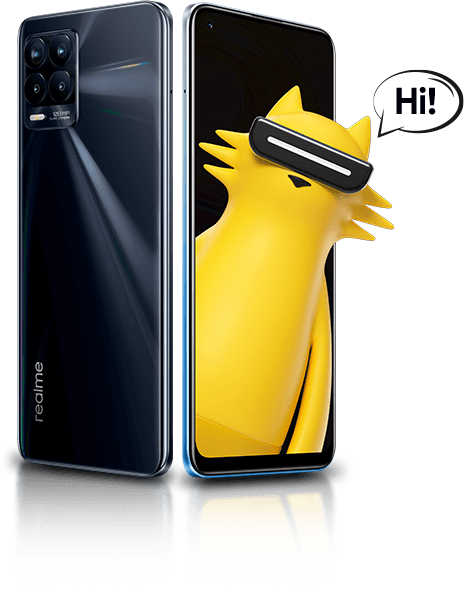
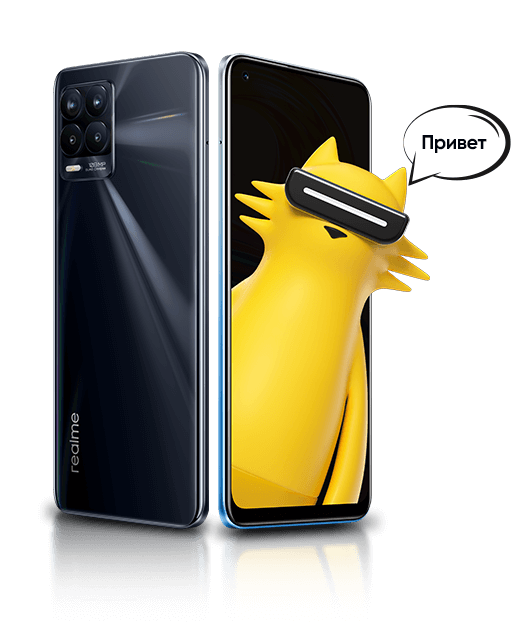
fix+adaptive start

diff --git a/css/styles.css b/css/styles.css
@@ -14,13 +14,23 @@ body {min-width:480px; margin:0; padding:0; background:#000 url(../images/bg.png
 .container {max-width:1200px; margin:0 auto; padding:0 30px}
 .container::after {content:""; display:block; clear:both}
 
-.logo {position:absolute; right:69px; top:39px; width:126px; height:38px; background:url(../images/logo.svg) no-repeat; background-size:100%; z-index:20}
+.logo {display:block; position:absolute; right:69px; top:39px; width:126px; height:38px; background:url(../images/logo.svg) no-repeat; background-size:100%; z-index:20}
+
+@media (max-width:767px) {
+    .logo {right:30px; top:30px; width:116px; height:35px}
+}
 
 .slider {font-size:0; line-height:0; letter-spacing:-1px; white-space:nowrap; position:relative; overflow:hidden}
 .slider-item {display:inline-block; vertical-align:top; width:100%}
 .slider-item-inner {height:790px; position:relative}
 .slider-item-bg {position:absolute; left:0; top:0; right:0; bottom:0; background:no-repeat center}
 .slider-item-content {position:relative; color:#fff}
+.slider .slick-prev,
+.slider .slick-next {display:block; position:absolute; z-index:2; top:50%; width:37px; height:53px; border:none; border-radius:0; margin:-26.5px 0 0 0; padding:0; outline:none; -webkit-appearance:none; cursor:pointer; background:none; transition:opacity 0.2s}
+.slider .slick-prev {left:52px; background:url(../images/slick-prev.png) no-repeat}
+.slider .slick-next {right:52px; background:url(../images/slick-next.png) no-repeat}
+.slider .slick-prev:hover,
+.slider .slick-next:hover {opacity:0.8}
 .slider .slick-dots {margin:0; padding:0; list-style:none; text-align:center; font-size:0; line-height:0; letter-spacing:-1px; position:absolute; left:0; bottom:34px; right:0}
 .slider .slick-dots li {margin:0 0 0 5px; padding:0; display:inline-block; vertical-align:top; position:relative}
 .slider .slick-dots li::before {display:none}
@@ -37,9 +47,11 @@ body {min-width:480px; margin:0; padding:0; background:#000 url(../images/bg.png
 .slider-1-buy::after {content:""; display:block; clear:both}
 .slider-1-price {float:left}
 .slider-1-price-value {font-weight:bold; font-size:59px; line-height:59px; color:#ffa336}
+.slider-1-price-value em {font-style:normal; font-size:48px; margin:0 17px 0 0}
 .slider-1-price-value span {font-size:52px; margin:0 0 0 5px}
+.slider-1-price-value strong {font-weight:bold; font-size:48px; margin:0 0 0 13px}
 .slider-1-price-old {font-weight:500; font-size:29px; line-height:29px; color:#7a7a7a; text-decoration:line-through; padding:2px 0 0 0}
-.slider-1-buy-link {float:left; width:236px; height:79px; margin:10px 0 0 39px; background:url(../images/slider-1-buy.png); text-align:center; text-decoration:none; color:#000109; font-weight:bold; font-size:47px; line-height:79px; position:relative; overflow:hidden}
+.slider-1-buy-link {float:left; width:236px; height:79px; margin:10px 0 0 13px; background:url(../images/slider-1-buy.png); text-align:center; text-decoration:none; color:#000109; font-weight:bold; font-size:47px; line-height:79px; position:relative; overflow:hidden}
 .slider-1-buy-link::before {content:""; display:block; background:#fff; height:155px; left:-75px; opacity:.2; position:absolute; top:-50px; transform:rotate(35deg); transition:all 550ms cubic-bezier(0.19, 1, 0.22, 1); width:50px}
 .slider-1-buy-link:hover::before {left:120%}
 
@@ -64,9 +76,11 @@ body {min-width:480px; margin:0; padding:0; background:#000 url(../images/bg.png
 .slider-3-buy::after {content:""; display:block; clear:both}
 .slider-3-price {float:left}
 .slider-3-price-value {font-weight:bold; font-size:59px; line-height:59px; color:#ffa336}
+.slider-3-price-value em {font-style:normal; font-size:48px; margin:0 17px 0 0}
 .slider-3-price-value span {font-size:52px; margin:0 0 0 5px}
+.slider-3-price-value strong {font-weight:bold; font-size:48px; margin:0 0 0 13px}
 .slider-3-price-old {font-weight:500; font-size:29px; line-height:29px; color:#7a7a7a; text-decoration:line-through; padding:2px 0 0 0}
-.slider-3-buy-link {float:left; width:236px; height:79px; margin:6px 0 0 50px; background:url(../images/slider-1-buy.png); text-align:center; text-decoration:none; color:#000109; font-weight:bold; font-size:47px; line-height:79px; position:relative; overflow:hidden}
+.slider-3-buy-link {float:left; width:236px; height:79px; margin:6px 0 0 19px; background:url(../images/slider-1-buy.png); text-align:center; text-decoration:none; color:#000109; font-weight:bold; font-size:47px; line-height:79px; position:relative; overflow:hidden}
 .slider-3-buy-link::before {content:""; display:block; background:#fff; height:155px; left:-75px; opacity:.2; position:absolute; top:-50px; transform:rotate(35deg); transition:all 550ms cubic-bezier(0.19, 1, 0.22, 1); width:50px}
 .slider-3-buy-link:hover::before {left:120%}
 
@@ -81,6 +95,14 @@ body {min-width:480px; margin:0; padding:0; background:#000 url(../images/bg.png
 .title {position:relative; height:114px; margin:0 -30px; background:url(../images/title.png) no-repeat center; text-align:center; padding:25px 0 0 0}
 .title-text-1 {font-size:41px; font-weight:600; line-height:41px; color:#ffa336; letter-spacing:-0.025em}
 .title-text-2 {font-size:22px; line-height:22px; color:#04f0ff; padding:3px 0 0 0}
+
+@media (max-width:767px) {
+    .title {background:url(../images/title-mobile.svg) no-repeat center; padding:0}
+    .title-wrapper {width:461px; display:table; margin:0 auto}
+    .title-inner {display:table-cell; height:114px; vertical-align:middle; padding:0 90px}
+    .title-text-1 {font-weight:bold; font-size:20px; line-height:24px; letter-spacing:0}
+    .title-text-2 {font-size:14px; line-height:16px; padding:5px 0 0 0; color:#00bae3}
+}
 
 .tech {margin:60px -13px 0 -13px; font-size:0; line-height:0; letter-spacing:-1px; white-space:nowrap; position:relative}
 .tech::before {content:""; display:block; width:1171px; height:69px; background:url(../images/gallery-top.png) no-repeat; position:absolute; z-index:1; left:50%; top:-9px; margin-left:-585.5px; pointer-events:none}
@@ -121,10 +143,10 @@ body {min-width:480px; margin:0; padding:0; background:#000 url(../images/bg.png
 .find {margin:120px -20px 0 -20px; background:rgba(4, 240, 255, 0.05); position:relative}
 .find::before {content:""; display:block; width:139px; height:136px; position:absolute; left:0; top:0; background:url(../images/find-left.png); z-index:-1}
 .find::after {content:""; display:block; width:139px; height:136px; position:absolute; right:0; bottom:0; background:url(../images/find-right.png); z-index:-1}
-.find-container {padding:74px 0 0 97px}
+.find-container {padding:74px 0 0 64px}
 .find-container::after {content:""; display:block; clear:both}
-.find-photo {float:left; line-height:0; width:464px; margin:0 0 -36px 0}
-.find-content {float:left; width:500px; margin:0 0 0 30px; padding:42px 0 0 0}
+.find-photo {float:left; line-height:0; width:511px; margin:-71px 0 -23px 0}
+.find-content {float:left; width:500px; margin:0 0 0 16px; padding:42px 0 0 0}
 .find-title {color:#fff; font-weight:bold; font-size:47px; line-height:47px; letter-spacing:-0.025em}
 .find-text {color:#fff; font-size:24px; line-height:31px; padding:24px 0 0 0}
 .find-links {margin:22px 0 0 -10px; font-size:0; line-height:0; letter-spacing:-1px}
@@ -149,6 +171,15 @@ body {min-width:480px; margin:0; padding:0; background:#000 url(../images/bg.png
 .buy-link {float:right; width:258px; height:89px; margin:60px 60px 0 0; background:url(../images/buy-link.png); text-align:center; text-decoration:none; color:#000109; font-weight:bold; font-size:53px; line-height:89px; position:relative; overflow:hidden}
 .buy-link::before {content:""; display:block; background:#fff; height:205px; left:-75px; opacity:.2; position:absolute; top:-50px; transform:rotate(35deg); transition:all 550ms cubic-bezier(0.19, 1, 0.22, 1); width:50px}
 .buy-link:hover::before {left:120%}
+
+@media (max-width:767px) {
+    .buy {margin:70px -30px; height:275px; background:url(../images/buy-mobile.svg) no-repeat center; padding:0; text-align:center}
+    .buy-text {float:none; padding:29px 0 0 0}
+    .buy-title {font-weight:bold; font-size:48px; line-height:58px; color:#ff9f00; letter-spacing:0}
+    .buy-descr {font-weight:normal; font-size:24px; line-height:28px; padding:10px 0 0 0; margin:0 auto; max-width:210px}
+    .buy-link {float:none; display:block; width:277px; height:57px; margin:20px auto 0 auto; background:linear-gradient(180deg, #ffc800 0%, #ff8800 100%); border-radius:5px; font-size:36px; line-height:57px; color:#000}
+    .buy-link::before {display:none}
+}
 
 .video {margin:60px 0 160px 0}
 .video-list {position:relative; margin:0 -13px; position:relative; font-size:0; line-height:0; letter-spacing:-1px; position:relative; white-space:nowrap}
@@ -199,13 +230,29 @@ body {min-width:480px; margin:0; padding:0; background:#000 url(../images/bg.png
 .gallery-list .slick-dots li button {display:block; position:relative; width:15px; height:15px; border-radius:50%; border:none; background:#0f5382; margin:0; padding:0; outline:none; -webkit-appearance:none; cursor:pointer; font-size:0; line-height:0; text-indent:100px; transition:background 0.2s}
 .gallery-list .slick-dots li.slick-active button {background:#ffa336}
 
+@media (max-width:767px) {
+    .gallery {width:404px; margin:47px auto 0 auto}
+    .gallery::before {width:410px; height:24px; background:url(../images/gallery-top-mobile.svg) no-repeat; top:-3px; margin-left:-205px}
+    .gallery::after {width:410px; height:24px; background:url(../images/gallery-bottom-mobile.svg) no-repeat; bottom:-3px; margin-left:-205px}
+    .gallery-list .slick-prev,
+    .gallery-list .slick-next {width:30px; height:42px; margin:-21px 0 0 0}
+    .gallery-list .slick-prev {left:10px; background:url(../images/slick-prev-mobile.png) no-repeat}
+    .gallery-list .slick-next {right:10px; background:url(../images/slick-next-mobile.png) no-repeat}
+    .gallery-list .slick-dots {bottom:15px}
+    .gallery-list .slick-dots li {margin:0 0 0 20px}
+    .gallery-list .slick-dots li:first-child {margin:0}
+    .gallery-list .slick-dots li button {width:10px; height:10px}
+    .gallery-list .slick-dots li.slick-active button {background:#ffc915}
+}
+
 .app {margin:60px 0 0 0; text-align:center; padding:0 0 92px 0}
 .app-qr {line-height:0}
+.app-qr-mobile {display:none}
 .app-title {font-weight:600; font-size:24px; line-height:24px; color:#ffa336; padding:20px 0 0 0}
 .app-title a {color:#ffa336; text-decoration:none; transition:color 0.2s}
 .app-title a:hover {color:#00bdff}
 .app-links {margin:28px 0 0 0; text-align:center; font-size:0; line-height:0; letter-spacing:-1px}
-.app-links a {display:inline-block; vertical-align:top; margin:0 0 0 15px; border:1px solid #00d9ff; border-radius:5px; height:48px; font-size:18px; line-height:46px; font-weight:bold; color:#00bdff; text-decoration:none; letter-spacing:0; position:relative; overflow:hidden}
+.app-links a {display:inline-block; vertical-align:top; margin:0 0 0 15px; border:1px solid #00d9ff; border-radius:5px; height:48px; font-size:16px; line-height:46px; font-weight:bold; color:#00bdff; text-decoration:none; letter-spacing:0; position:relative; overflow:hidden}
 .app-links a:first-child {margin:0}
 .app-links a span {display:block; background:#000; position:absolute; left:0; top:0; width:100%; height:100%}
 .app-links a img {vertical-align:middle}
@@ -218,12 +265,33 @@ body {min-width:480px; margin:0; padding:0; background:#000 url(../images/bg.png
 .app-link-youtube {padding:0 18px 0 12px}
 .app-link-youtube img {margin:-2px 13px 0 0}
 
+@media (max-width:767px) {
+    .app {margin:80px 0 0 0; padding:0}
+    .app-qr {display:none}
+    .app-qr-mobile {display:block; line-height:0}
+    .app-title {margin:0 auto; max-width:304px; padding:10px 0 0 0; font-size:24px; line-height:29px; font-weight:bold; color:#ff9f00}
+    .app-links {margin:20px auto 0 auto; max-width:304px}
+    .app-links a {display:block; margin:10px 0 0 0; font-size:18px; text-align:left}
+    .app-link-vk {padding:0 0 0 9px}
+    .app-link-instagram {padding:0 0 0 11px}
+    .app-link-telegram {padding:0 0 0 11px}
+    .app-link-youtube {padding:0 0 0 12px}
+}
+
 .disclaimer {color:#fff; font-size:17px; line-height:24px; padding:40px 999px 70px 999px; margin:0 -999px; color:#04f0ff; background:#021428}
 .disclaimer p {margin:0; padding:0}
+
+@media (max-width:767px) {
+    .disclaimer {font-size:16px; line-height:18px; padding:19px 30px 26px 30px; margin:35px -30px 0 -30px; color:#fff; background:#061a44}
+}
 
 .up-link {display:none; width:50px; height:50px; position:fixed; right:68px; bottom:38px; z-index:98; background:rgba(255, 255, 255, 0.15) url(../images/up-link.svg) no-repeat center; border-radius:50%; border:1px solid #00bdff; transition:background-color 0.2s; background-size:20px 12px}
 .up-link:hover {background-color:rgba(255, 255, 255, 0.3)}
 .up-link.visible {display:block}
+
+@media (max-width:767px) {
+    .up-link {right:20px; bottom:20px}
+}
 
 .window-open,
 .window-open body {overflow:hidden; position:fixed; left:0; top:0; right:0; bottom:0}

diff --git a/index.html b/index.html
@@ -17,7 +17,7 @@
         <!-- wrapper -->
         <div class="wrapper">
 
-            <div class="logo"></div>
+            <a href="https://www.realme.com/ru/" class="logo" target="_blank" rel="nofollow"></a>
 
             <!-- slider -->
             <div class="slider">
@@ -32,7 +32,7 @@
                                     <div class="slider-1-text">Игровой процессор Helio G95<br /> Super AMOLED экран 6.4" | Аккумулятор 5000 мАч</div>
                                     <div class="slider-1-buy">
                                         <div class="slider-1-price">
-                                            <div class="slider-1-price-value">20 990<span>₽</span></div>
+                                            <div class="slider-1-price-value"><em>от</em>20 990<span>₽</span><strong>**</strong></div>
                                             <div class="slider-1-price-old">23 990 ₽</div>
                                         </div>
                                         <a href="#" class="slider-1-buy-link window-link" data-window="1">Купить</a>
@@ -80,7 +80,7 @@
                                     <div class="slider-3-text">AI-квадрокамера 108 Мп | SuperDART Charge 50 Вт<br /> Super AMOLED экран 6.4"</div>
                                     <div class="slider-3-buy">
                                         <div class="slider-3-price">
-                                            <div class="slider-3-price-value">24 990<span>₽</span></div>
+                                            <div class="slider-3-price-value"><em>от</em>24 990<span>₽</span><strong>**</strong></div>
                                             <div class="slider-3-price-old">27 990 ₽</div>
                                         </div>
                                         <a href="#" class="slider-3-buy-link window-link" data-window="2">Купить</a>
@@ -104,8 +104,12 @@
                 </div>
 
                 <div class="title" id="tech">
-                    <div class="title-text-1">Все новости о realme 8 серии здесь</div>
-                    <div class="title-text-2">Cледи за последними новостями</div>
+                    <div class="title-wrapper">
+                        <div class="title-inner">
+                            <div class="title-text-1">Все новости о&nbsp;realme&nbsp;8&nbsp;серии здесь</div>
+                            <div class="title-text-2">Cледи за последними новостями</div>
+                        </div>
+                    </div>
                 </div>
 
                 <!-- tech -->
@@ -166,7 +170,7 @@
                     <div class="find-container">
                         <div class="find-photo"><img src="images/find-photo.png" alt="" /></div>
                         <div class="find-content">
-                            <div class="find-title">Найди realmeow</div>
+                            <div class="find-title">Найди реалмяу</div>
                             <div class="find-text">Оставляй комментарии под конкурсными постами в официальных аккаунтах realme (VK/Instagram/realme Community/Telegram) и получай шанс выиграть realme 8.</div>
                             <div class="find-links">
                                 <a href="#" target="_blank" class="find-link-vk btn-glitch"><img src="images/find-vk.png" alt="" />VK<span class="btn-glitch-1"><img src="images/find-vk.png" alt="" />VK</span><span class="btn-glitch-2"><img src="images/find-vk.png" alt="" />VK</span></a>
@@ -187,8 +191,12 @@
                 </div>
 
                 <div class="title" id="video">
-                    <div class="title-text-1">Видео realme 8 серии</div>
-                    <div class="title-text-2">Хотите узнать больше о realme 8 серии? Тогда вперед!</div>
+                    <div class="title-wrapper">
+                        <div class="title-inner">
+                            <div class="title-text-1">Видео realme 8&nbsp;серии</div>
+                            <div class="title-text-2">Хотите узнать больше о realme 8 серии? Тогда вперед!</div>
+                        </div>
+                    </div>
                 </div>
 
                 <div class="video">
@@ -216,15 +224,19 @@
                     </div>
 
                     <div class="video-ctrl">
-                        <a href="#">Продуктовые видео</a>
+                        <a href="#">Realme 8 серия</a>
                         <a href="#">Анбоксинг</a>
-                        <a href="#">Видео с блогерами</a>
+                        <a href="#">Обзоры от блогеров</a>
                     </div>
                 </div>
 
                 <div class="title" id="gallery">
-                    <div class="title-text-1">Галерея realme 8 серии</div>
-                    <div class="title-text-2">Узнайте больше о realme 8 и realme 8 Pro</div>
+                    <div class="title-wrapper">
+                        <div class="title-inner">
+                            <div class="title-text-1">Галерея realme 8 серии</div>
+                            <div class="title-text-2">Узнайте больше о realme 8 и realme 8 Pro</div>
+                        </div>
+                    </div>
                 </div>
 
                 <div class="gallery">
@@ -245,18 +257,23 @@
                 </div>
 
                 <div class="title">
-                    <div class="title-text-1">Присоединяйся к realme Community</div>
-                    <div class="title-text-2">Стань первым пользователем realme 8 серии</div>
+                    <div class="title-wrapper">
+                        <div class="title-inner">
+                            <div class="title-text-1">Присоединяйся к&nbsp;realme&nbsp;Community</div>
+                            <div class="title-text-2">Стань первым пользователем realme&nbsp;8&nbsp;серии</div>
+                        </div>
+                    </div>
                 </div>
 
                 <div class="app">
                     <div class="app-qr"><img src="images/app-qr.png" alt="" /></div>
-                    <div class="app-title"><a href="https://c.realme.com/ru/" target="_blank">Скачивай приложение realme Community</a></div>
+                    <div class="app-qr-mobile"><img src="images/app-qr-mobile.png" alt="" /></div>
+                    <div class="app-title"><a href="https://c.realme.com/ru/" target="_blank">Скачивай приложение realme&nbsp;Community</a></div>
                     <div class="app-links">
-                        <a href="#" target="_blank" class="app-link-vk btn-glitch"><img src="images/app-vk.png" alt="" />Подписаться в VK<span class="btn-glitch-1"><img src="images/app-vk.png" alt="" />Подписаться в VK</span><span class="btn-glitch-2"><img src="images/app-vk.png" alt="" />Подписаться в VK</span></a>
-                        <a href="#" target="_blank" class="app-link-instagram btn-glitch"><img src="images/app-instagram.png" alt="" />Подписаться в Instagram<span class="btn-glitch-1"><img src="images/app-instagram.png" alt="" />Подписаться в Instagram</span><span class="btn-glitch-2"><img src="images/app-instagram.png" alt="" />Подписаться в Instagram</span></a>
-                        <a href="#" target="_blank" class="app-link-telegram btn-glitch"><img src="images/app-telegram.png" alt="" />Подписаться в Telegram<span class="btn-glitch-1"><img src="images/app-telegram.png" alt="" />Подписаться в Telegram</span><span class="btn-glitch-2"><img src="images/app-telegram.png" alt="" />Подписаться в Telegram</span></a>
-                        <a href="#" target="_blank" class="app-link-youtube btn-glitch"><img src="images/app-youtube.png" alt="" />Подписаться в YouTube<span class="btn-glitch-1"><img src="images/app-youtube.png" alt="" />Подписаться в YouTube</span><span class="btn-glitch-2"><img src="images/app-youtube.png" alt="" />Подписаться в YouTube</span></a>
+                        <a href="#" target="_blank" class="app-link-vk btn-glitch"><img src="images/app-vk.png" alt="" />Присоединиться к VK<span class="btn-glitch-1"><img src="images/app-vk.png" alt="" />Присоединиться к VK</span><span class="btn-glitch-2"><img src="images/app-vk.png" alt="" />Присоединиться к VK</span></a>
+                        <a href="#" target="_blank" class="app-link-instagram btn-glitch"><img src="images/app-instagram.png" alt="" />Присоединиться к Instagram<span class="btn-glitch-1"><img src="images/app-instagram.png" alt="" />Присоединиться к Instagram</span><span class="btn-glitch-2"><img src="images/app-instagram.png" alt="" />Присоединиться к Instagram</span></a>
+                        <a href="#" target="_blank" class="app-link-telegram btn-glitch"><img src="images/app-telegram.png" alt="" />Присоединиться к Telegram<span class="btn-glitch-1"><img src="images/app-telegram.png" alt="" />Присоединиться к Telegram</span><span class="btn-glitch-2"><img src="images/app-telegram.png" alt="" />Присоединиться к Telegram</span></a>
+                        <a href="#" target="_blank" class="app-link-youtube btn-glitch"><img src="images/app-youtube.png" alt="" />Присоединиться к YouTube<span class="btn-glitch-1"><img src="images/app-youtube.png" alt="" />Присоединиться к YouTube</span><span class="btn-glitch-2"><img src="images/app-youtube.png" alt="" />Присоединиться к YouTube</span></a>
                     </div>
                 </div>
 

diff --git a/js/tools.js b/js/tools.js
@@ -4,11 +4,12 @@ $(document).ready(function() {
         infinite: true,
         slidesToShow: 1,
         slidesToScroll: 1,
-        arrows: false,
+        prevArrow: '<button type="button" class="slick-prev"></button>',
+        nextArrow: '<button type="button" class="slick-next"></button>',
         dots: true,
         autoplay: true,
         autoplaySpeed: 5000,
-        speed: 500,
+        speed: 1000,
         pauseOnFocus: false,
         pauseOnHover: false,
         pauseOnDotsHover: false
